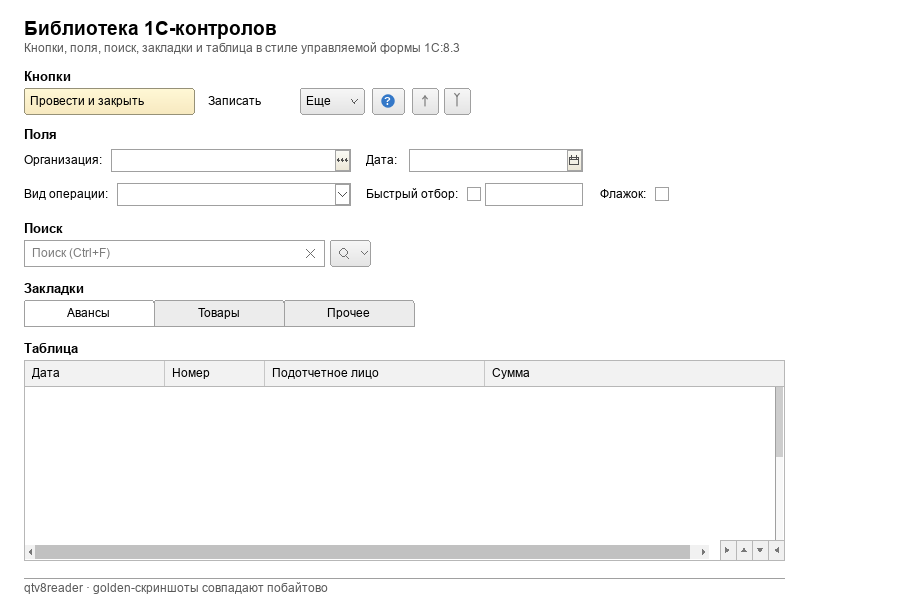
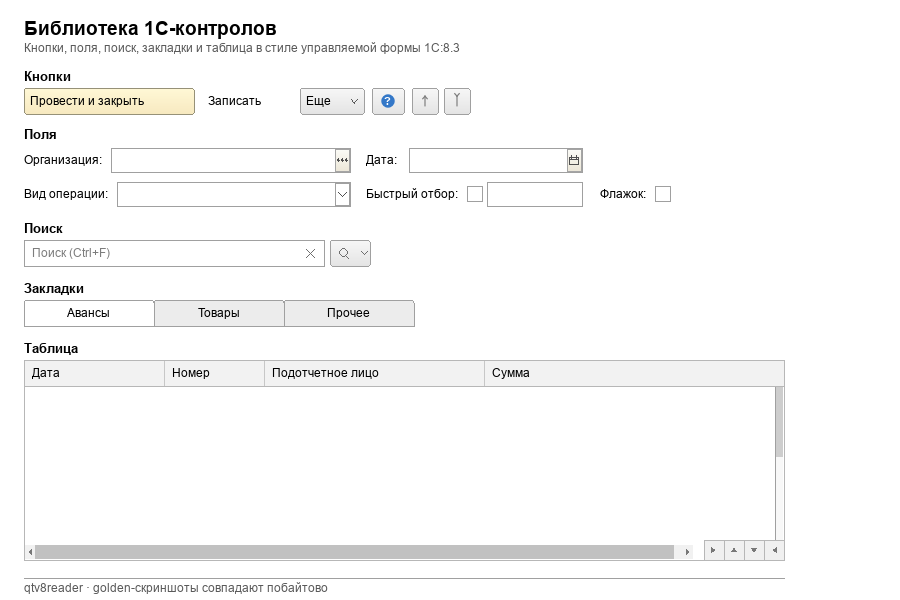
fix(forms): кромка окна и поля отбора по эталону

Changed region(s): [[0.1244, 0.24, 0.3733, 0.36], [0.4667, 0.24, 0.6222, 0.36], [0.7467, 0.9, 0.8711, 0.93]]

diff --git a/src/gui/controls/FieldControl.cpp b/src/gui/controls/FieldControl.cpp
@@ -50,20 +50,20 @@ void paintField(QPainter &painter, const FieldVisual &visual,
         }
     }
     if (visual.checkBox) {
-        const QRectF box(x + 1.0, rect.top() + (rect.height() - 13.0) / 2.0,
-                         13.0, 13.0);
+        const QRectF box(x + 1.0, rect.top() + (rect.height() - 15.0) / 2.0,
+                         15.0, 15.0);
         painter.setPen(FormStyle::fieldBorder);
         painter.setBrush(Qt::white);
         painter.drawRect(box);
         painter.setBrush(Qt::NoBrush);
-        x += 19.0;
+        x += 21.0;
         if (visual.checkboxOnly)
             return;
     }
     double editWidth = std::max(24.0, rect.right() - x - 4.0);
     if (visual.inputWidth > 0.0)
         editWidth = std::min(editWidth, visual.inputWidth);
-    const QRectF edit(x, rect.top() + 3.0, editWidth, rect.height() - 6.0);
+    const QRectF edit(x, rect.top() + 2.0, editWidth, rect.height() - 4.0);
     painter.setPen(FormStyle::fieldBorder);
     painter.setBrush(Qt::white);
     painter.drawRect(edit);

diff --git a/src/gui/controls/TableControl.cpp b/src/gui/controls/TableControl.cpp
@@ -101,7 +101,7 @@ void paintTable(QPainter &painter, const TableVisual &visual,
     painter.drawLine(verticalTrack.topLeft(), verticalTrack.bottomLeft());
 
     if (horizontalScroll) {
-        const double cornerWidth = 64.0;
+        const double cornerWidth = 80.0;
         const QRectF track(rect.left() + 1.0,
                            rect.top() + tableHeight - scrollHeight + 1.0,
                            std::max(20.0, rect.width() - verticalScrollWidth
@@ -117,7 +117,7 @@ void paintTable(QPainter &painter, const TableVisual &visual,
         painter.setPen(FormStyle::tableBorder);
         painter.drawRect(corner);
         for (int i = 0; i < 4; ++i) {
-            const QRectF cell(corner.left() + i * 16.0, corner.top(), 16.0, 20.0);
+            const QRectF cell(corner.left() + i * 20.0, corner.top(), 20.0, 20.0);
             painter.setPen(FormStyle::tableBorder);
             painter.setBrush(QColor(240, 240, 240));
             painter.drawRect(cell);

diff --git a/src/gui/FormView.cpp b/src/gui/FormView.cpp
@@ -1580,6 +1580,14 @@ protected:
         painter.setPen(QPen(QColor(150, 160, 170), 1.0));
         painter.setBrush(Qt::NoBrush);
         painter.drawRect(QRectF(3.0, 26.0, logicalW - 6.0, logicalH - 29.0));
+
+        // Белая внешняя кромка окна.
+        painter.setPen(Qt::NoPen);
+        painter.setBrush(Qt::white);
+        painter.drawRect(QRectF(0.0, 0.0, logicalW, 2.0));
+        painter.drawRect(QRectF(0.0, 0.0, 2.0, logicalH));
+        painter.drawRect(QRectF(logicalW - 2.0, 0.0, 2.0, logicalH));
+        painter.drawRect(QRectF(0.0, logicalH - 2.0, logicalW, 2.0));
     }
 
 private:

diff --git a/CHANGELOG.md b/CHANGELOG.md
@@ -101,6 +101,8 @@
   заголовка, как на эталоне; быстрые отборы делят строку поровну.
 - Добавлена вертикальная полоса прокрутки таблицы, исправлен уголок из
   четырёх кнопок (светлый фон и стрелки), снизу оставлен отступ окна.
+- Белая внешняя кромка окна, выше поля быстрых отборов и увеличенный
+  уголок прокрутки — ближе к эталону конфигуратора.
 - В формах элементов справочников добавлены стандартные команды
   «Записать и закрыть» и «Записать»; командная панель таких форм
   определяется и без отдельной группы кнопок.
